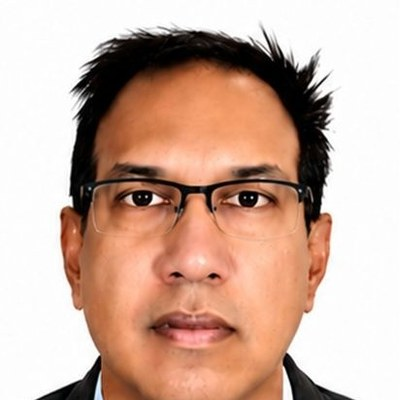
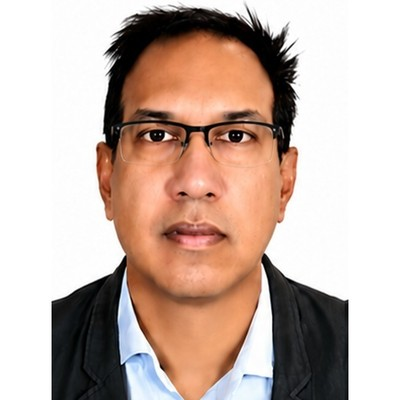
docs: update team page photos, titles, order; add contributors

diff --git a/docs/ABOUT.md b/docs/ABOUT.md
@@ -4,6 +4,15 @@
 
 <div class="grid cards" markdown>
 
+- ![Taehyun Han](img/team_han.jpg){ .team-photo }
+
+    **Taehyun Han** &nbsp;한태현
+
+    Undergraduate, Yonsei University. Dual major in Nano Science and
+    Engineering (Integrated Science and Engineering Division, Underwood
+    International College) and Computer Science and Engineering (College of
+    Computing).
+
 - ![Sehun Chun](img/team_chun.jpg){ .team-photo }
 
     **Sehun Chun** &nbsp;천세훈
@@ -14,31 +23,11 @@
 
     [sites.google.com/site/uicschun](https://sites.google.com/site/uicschun/)
 
-- **Taehyun Han**
-
-    Undergraduate, Yonsei University. Dual major in Nano Science and
-    Engineering (Integrated Science and Engineering Division, Underwood
-    International College) and Computer Science and Engineering (College of
-    Computing).
-
 </div>
 
 ## Advisory Faculty Board
 
 <div class="grid cards" markdown>
-
-- ![Linyu Peng](img/team_peng.jpg){ .team-photo }
-
-    **Linyu Peng** &nbsp;彭 林玉
-
-    Associate Professor (PI), Department of Mechanical Engineering,
-    Keio University.
-
-    Adjunct Researcher, Institute for Applied Mathematics and Sciences,
-    Waseda University. Part-time Lecturer, Faculty of Science and Engineering,
-    Waseda University.
-
-    [peng.mech.keio.ac.jp](http://www.peng.mech.keio.ac.jp/faculty/index.html)
 
 - ![Hae-Jeong Park](img/team_park.jpg){ .team-photo }
 
@@ -56,13 +45,31 @@
 
     **Vinoth Jagaroo**
 
-    Associate Professor, Department of Communication Sciences and Disorders,
-    Emerson College. Faculty affiliate, Behavioral Neuroscience PhD Program,
-    Boston University School of Medicine.
+    Associate Professor of Cognitive Neuroscience, Brain-Behavioral Sciences,
+    Emerson College. Affiliate Faculty and Clinical Instructor, Neuroanatomy &
+    Neuroscience, The Behavioral Neuroscience Ph.D. Program, Graduate Medical
+    Sciences, Boston University Chobanian & Avedisian School of Medicine.
 
     [sites.bu.edu/jagaroo](https://sites.bu.edu/jagaroo/)
 
+- ![Linyu Peng](img/team_peng.jpg){ .team-photo }
+
+    **Linyu Peng** &nbsp;彭 林玉
+
+    Associate Professor (PI), Department of Mechanical Engineering,
+    Keio University.
+
+    Adjunct Researcher, Institute for Applied Mathematics and Sciences,
+    Waseda University. Part-time Lecturer, Faculty of Science and Engineering,
+    Waseda University.
+
+    [peng.mech.keio.ac.jp](http://www.peng.mech.keio.ac.jp/faculty/index.html)
+
 </div>
+
+## Contributors
+
+- **Youngwoo Kim**
 
 ---
 
